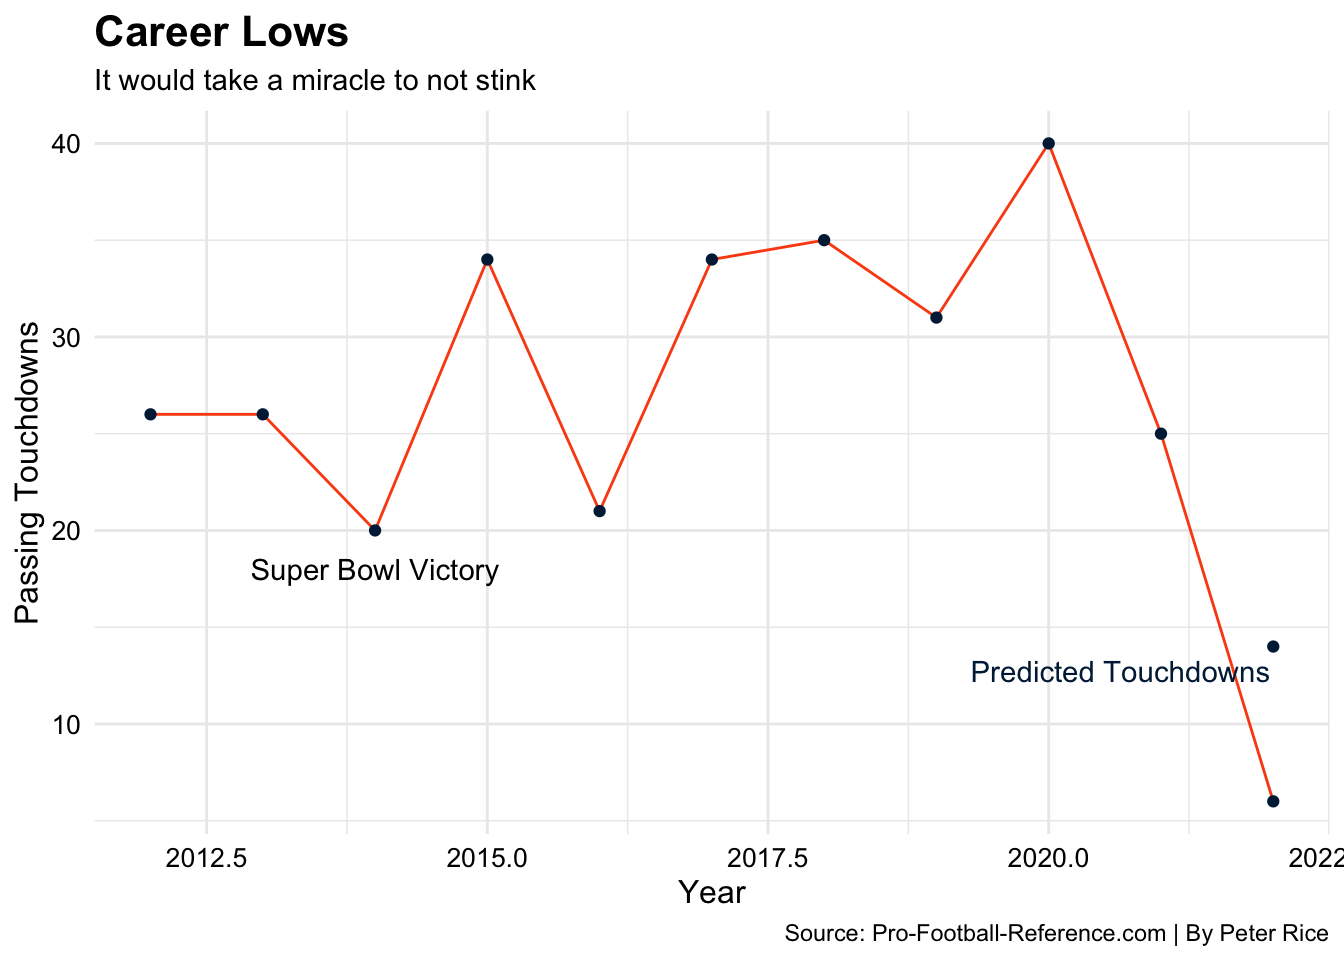
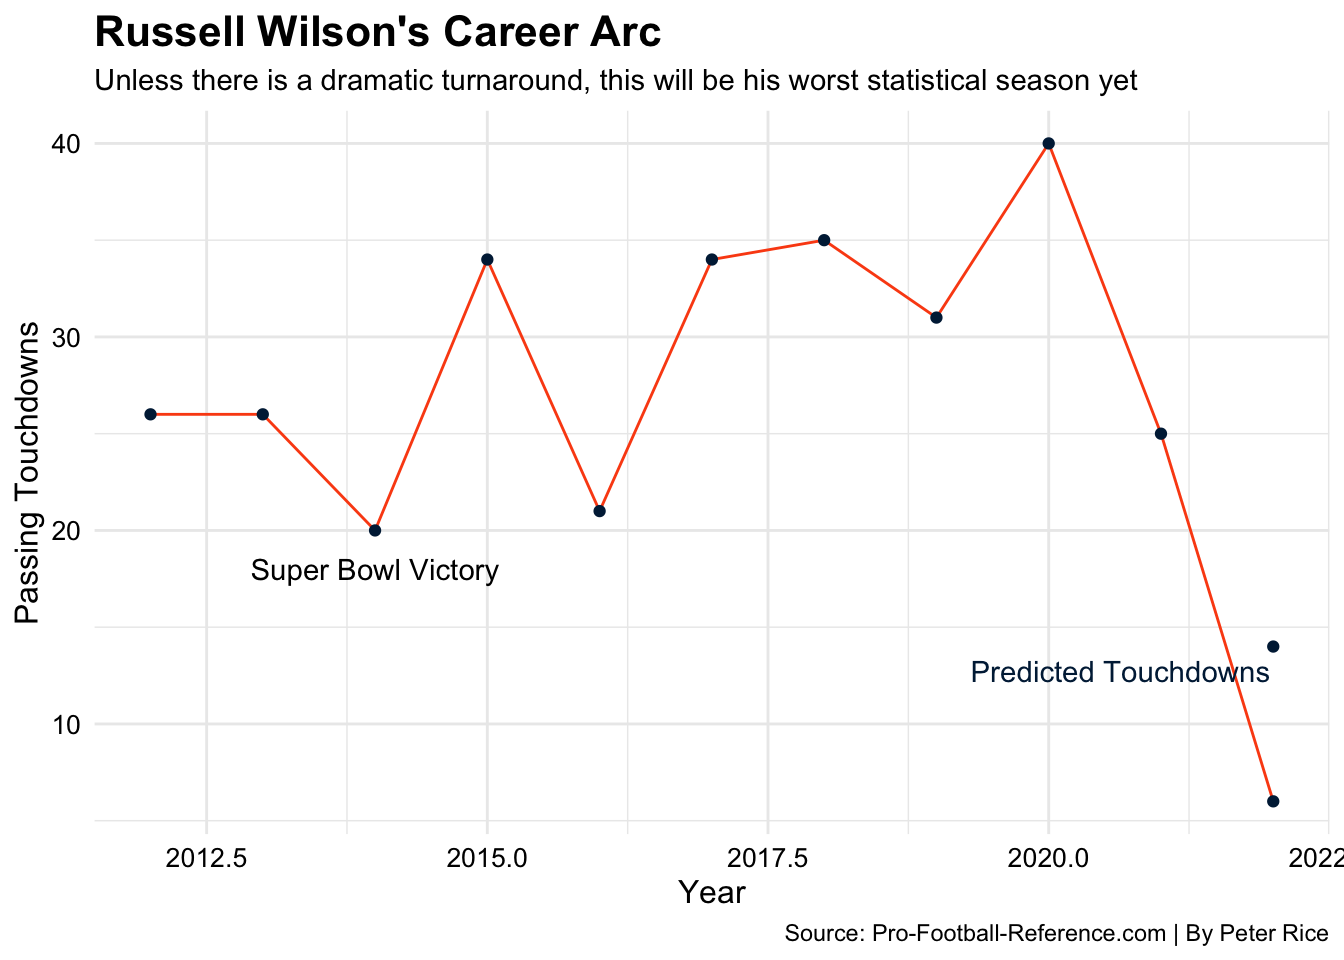
f

Changed region(s): [[0.0625, 0.0, 0.8438, 0.0938]]

diff --git a/posts/russell-wilson-isnt-living-up-to-hype/index.html b/posts/russell-wilson-isnt-living-up-to-hype/index.html
@@ -327,12 +327,12 @@ code span.wa { color: #60a0b0; font-weight: bold; font-style: italic; } /* Warni
 </details>
 <div class="cell-output-display">
 
-<div id="aepnxbnpwr" style="overflow-x:auto;overflow-y:auto;width:auto;height:auto;">
+<div id="ujxrtpgthv" style="overflow-x:auto;overflow-y:auto;width:auto;height:auto;">
 <style>html {
   font-family: -apple-system, BlinkMacSystemFont, 'Segoe UI', Roboto, Oxygen, Ubuntu, Cantarell, 'Helvetica Neue', 'Fira Sans', 'Droid Sans', Arial, sans-serif;
 }
 
-:where(#aepnxbnpwr) .gt_table {
+:where(#ujxrtpgthv) .gt_table {
   display: table;
   border-collapse: collapse;
   margin-left: auto;
@@ -357,7 +357,7 @@ code span.wa { color: #60a0b0; font-weight: bold; font-style: italic; } /* Warni
   border-left-color: #D3D3D3;
 }
 
-:where(#aepnxbnpwr) .gt_heading {
+:where(#ujxrtpgthv) .gt_heading {
   background-color: #FFFFFF;
   text-align: center;
   border-bottom-color: #FFFFFF;
@@ -369,7 +369,7 @@ code span.wa { color: #60a0b0; font-weight: bold; font-style: italic; } /* Warni
   border-right-color: #D3D3D3;
 }
 
-:where(#aepnxbnpwr) .gt_title {
+:where(#ujxrtpgthv) .gt_title {
   color: #333333;
   font-size: 125%;
   font-weight: initial;
@@ -381,7 +381,7 @@ code span.wa { color: #60a0b0; font-weight: bold; font-style: italic; } /* Warni
   border-bottom-width: 0;
 }
 
-:where(#aepnxbnpwr) .gt_subtitle {
+:where(#ujxrtpgthv) .gt_subtitle {
   color: #333333;
   font-size: 85%;
   font-weight: initial;
@@ -393,13 +393,13 @@ code span.wa { color: #60a0b0; font-weight: bold; font-style: italic; } /* Warni
   border-top-width: 0;
 }
 
-:where(#aepnxbnpwr) .gt_bottom_border {
+:where(#ujxrtpgthv) .gt_bottom_border {
   border-bottom-style: none;
   border-bottom-width: 2px;
   border-bottom-color: #D3D3D3;
 }
 
-:where(#aepnxbnpwr) .gt_col_headings {
+:where(#ujxrtpgthv) .gt_col_headings {
   border-top-style: none;
   border-top-width: 2px;
   border-top-color: #D3D3D3;
@@ -414,7 +414,7 @@ code span.wa { color: #60a0b0; font-weight: bold; font-style: italic; } /* Warni
   border-right-color: #D3D3D3;
 }
 
-:where(#aepnxbnpwr) .gt_col_heading {
+:where(#ujxrtpgthv) .gt_col_heading {
   color: #333333;
   background-color: #FFFFFF;
   font-size: 100%;
@@ -434,7 +434,7 @@ code span.wa { color: #60a0b0; font-weight: bold; font-style: italic; } /* Warni
   overflow-x: hidden;
 }
 
-:where(#aepnxbnpwr) .gt_column_spanner_outer {
+:where(#ujxrtpgthv) .gt_column_spanner_outer {
   color: #333333;
   background-color: #FFFFFF;
   font-size: 100%;
@@ -446,15 +446,15 @@ code span.wa { color: #60a0b0; font-weight: bold; font-style: italic; } /* Warni
   padding-right: 4px;
 }
 
-:where(#aepnxbnpwr) .gt_column_spanner_outer:first-child {
+:where(#ujxrtpgthv) .gt_column_spanner_outer:first-child {
   padding-left: 0;
 }
 
-:where(#aepnxbnpwr) .gt_column_spanner_outer:last-child {
+:where(#ujxrtpgthv) .gt_column_spanner_outer:last-child {
   padding-right: 0;
 }
 
-:where(#aepnxbnpwr) .gt_column_spanner {
+:where(#ujxrtpgthv) .gt_column_spanner {
   border-bottom-style: none;
   border-bottom-width: 2px;
   border-bottom-color: #D3D3D3;
@@ -466,7 +466,7 @@ code span.wa { color: #60a0b0; font-weight: bold; font-style: italic; } /* Warni
   width: 100%;
 }
 
-:where(#aepnxbnpwr) .gt_group_heading {
+:where(#ujxrtpgthv) .gt_group_heading {
   padding-top: 8px;
   padding-bottom: 8px;
   padding-left: 5px;
@@ -491,7 +491,7 @@ code span.wa { color: #60a0b0; font-weight: bold; font-style: italic; } /* Warni
   vertical-align: middle;
 }
 
-:where(#aepnxbnpwr) .gt_empty_group_heading {
+:where(#ujxrtpgthv) .gt_empty_group_heading {
   padding: 0.5px;
   color: #333333;
   background-color: #FFFFFF;
@@ -506,15 +506,15 @@ code span.wa { color: #60a0b0; font-weight: bold; font-style: italic; } /* Warni
   vertical-align: middle;
 }
 
-:where(#aepnxbnpwr) .gt_from_md > :first-child {
+:where(#ujxrtpgthv) .gt_from_md > :first-child {
   margin-top: 0;
 }
 
-:where(#aepnxbnpwr) .gt_from_md > :last-child {
+:where(#ujxrtpgthv) .gt_from_md > :last-child {
   margin-bottom: 0;
 }
 
-:where(#aepnxbnpwr) .gt_row {
+:where(#ujxrtpgthv) .gt_row {
   padding-top: 8px;
   padding-bottom: 8px;
   padding-left: 5px;
@@ -533,7 +533,7 @@ code span.wa { color: #60a0b0; font-weight: bold; font-style: italic; } /* Warni
   overflow-x: hidden;
 }
 
-:where(#aepnxbnpwr) .gt_stub {
+:where(#ujxrtpgthv) .gt_stub {
   color: #333333;
   background-color: #FFFFFF;
   font-size: 100%;
@@ -546,7 +546,7 @@ code span.wa { color: #60a0b0; font-weight: bold; font-style: italic; } /* Warni
   padding-right: 5px;
 }
 
-:where(#aepnxbnpwr) .gt_stub_row_group {
+:where(#ujxrtpgthv) .gt_stub_row_group {
   color: #333333;
   background-color: #FFFFFF;
   font-size: 100%;
@@ -560,11 +560,11 @@ code span.wa { color: #60a0b0; font-weight: bold; font-style: italic; } /* Warni
   vertical-align: top;
 }
 
-:where(#aepnxbnpwr) .gt_row_group_first td {
+:where(#ujxrtpgthv) .gt_row_group_first td {
   border-top-width: 2px;
 }
 
-:where(#aepnxbnpwr) .gt_summary_row {
+:where(#ujxrtpgthv) .gt_summary_row {
   color: #333333;
   background-color: #FFFFFF;
   text-transform: inherit;
@@ -574,16 +574,16 @@ code span.wa { color: #60a0b0; font-weight: bold; font-style: italic; } /* Warni
   padding-right: 5px;
 }
 
-:where(#aepnxbnpwr) .gt_first_summary_row {
+:where(#ujxrtpgthv) .gt_first_summary_row {
   border-top-style: none;
   border-top-color: #D3D3D3;
 }
 
-:where(#aepnxbnpwr) .gt_first_summary_row.thick {
+:where(#ujxrtpgthv) .gt_first_summary_row.thick {
   border-top-width: 2px;
 }
 
-:where(#aepnxbnpwr) .gt_last_summary_row {
+:where(#ujxrtpgthv) .gt_last_summary_row {
   padding-top: 8px;
   padding-bottom: 8px;
   padding-left: 5px;
@@ -593,7 +593,7 @@ code span.wa { color: #60a0b0; font-weight: bold; font-style: italic; } /* Warni
   border-bottom-color: #D3D3D3;
 }
 
-:where(#aepnxbnpwr) .gt_grand_summary_row {
+:where(#ujxrtpgthv) .gt_grand_summary_row {
   color: #333333;
   background-color: #FFFFFF;
   text-transform: inherit;
@@ -603,7 +603,7 @@ code span.wa { color: #60a0b0; font-weight: bold; font-style: italic; } /* Warni
   padding-right: 5px;
 }
 
-:where(#aepnxbnpwr) .gt_first_grand_summary_row {
+:where(#ujxrtpgthv) .gt_first_grand_summary_row {
   padding-top: 8px;
   padding-bottom: 8px;
   padding-left: 5px;
@@ -613,11 +613,11 @@ code span.wa { color: #60a0b0; font-weight: bold; font-style: italic; } /* Warni
   border-top-color: #D3D3D3;
 }
 
-:where(#aepnxbnpwr) .gt_striped {
+:where(#ujxrtpgthv) .gt_striped {
   background-color: rgba(128, 128, 128, 0.05);
 }
 
-:where(#aepnxbnpwr) .gt_table_body {
+:where(#ujxrtpgthv) .gt_table_body {
   border-top-style: none;
   border-top-width: 2px;
   border-top-color: #D3D3D3;
@@ -626,7 +626,7 @@ code span.wa { color: #60a0b0; font-weight: bold; font-style: italic; } /* Warni
   border-bottom-color: #D3D3D3;
 }
 
-:where(#aepnxbnpwr) .gt_footnotes {
+:where(#ujxrtpgthv) .gt_footnotes {
   color: #333333;
   background-color: #FFFFFF;
   border-bottom-style: none;
@@ -640,7 +640,7 @@ code span.wa { color: #60a0b0; font-weight: bold; font-style: italic; } /* Warni
   border-right-color: #D3D3D3;
 }
 
-:where(#aepnxbnpwr) .gt_footnote {
+:where(#ujxrtpgthv) .gt_footnote {
   margin: 0px;
   font-size: 90%;
   padding-left: 4px;
@@ -649,7 +649,7 @@ code span.wa { color: #60a0b0; font-weight: bold; font-style: italic; } /* Warni
   padding-right: 5px;
 }
 
-:where(#aepnxbnpwr) .gt_sourcenotes {
+:where(#ujxrtpgthv) .gt_sourcenotes {
   color: #333333;
   background-color: #FFFFFF;
   border-bottom-style: none;
@@ -663,7 +663,7 @@ code span.wa { color: #60a0b0; font-weight: bold; font-style: italic; } /* Warni
   border-right-color: #D3D3D3;
 }
 
-:where(#aepnxbnpwr) .gt_sourcenote {
+:where(#ujxrtpgthv) .gt_sourcenote {
   font-size: 90%;
   padding-top: 4px;
   padding-bottom: 4px;
@@ -671,64 +671,64 @@ code span.wa { color: #60a0b0; font-weight: bold; font-style: italic; } /* Warni
   padding-right: 5px;
 }
 
-:where(#aepnxbnpwr) .gt_left {
+:where(#ujxrtpgthv) .gt_left {
   text-align: left;
 }
 
-:where(#aepnxbnpwr) .gt_center {
+:where(#ujxrtpgthv) .gt_center {
   text-align: center;
 }
 
-:where(#aepnxbnpwr) .gt_right {
+:where(#ujxrtpgthv) .gt_right {
   text-align: right;
   font-variant-numeric: tabular-nums;
 }
 
-:where(#aepnxbnpwr) .gt_font_normal {
+:where(#ujxrtpgthv) .gt_font_normal {
   font-weight: normal;
 }
 
-:where(#aepnxbnpwr) .gt_font_bold {
+:where(#ujxrtpgthv) .gt_font_bold {
   font-weight: bold;
 }
 
-:where(#aepnxbnpwr) .gt_font_italic {
+:where(#ujxrtpgthv) .gt_font_italic {
   font-style: italic;
 }
 
-:where(#aepnxbnpwr) .gt_super {
+:where(#ujxrtpgthv) .gt_super {
   font-size: 65%;
 }
 
-:where(#aepnxbnpwr) .gt_footnote_marks {
+:where(#ujxrtpgthv) .gt_footnote_marks {
   font-style: italic;
   font-weight: normal;
   font-size: 75%;
   vertical-align: 0.4em;
 }
 
-:where(#aepnxbnpwr) .gt_asterisk {
+:where(#ujxrtpgthv) .gt_asterisk {
   font-size: 100%;
   vertical-align: 0;
 }
 
-:where(#aepnxbnpwr) .gt_indent_1 {
+:where(#ujxrtpgthv) .gt_indent_1 {
   text-indent: 5px;
 }
 
-:where(#aepnxbnpwr) .gt_indent_2 {
+:where(#ujxrtpgthv) .gt_indent_2 {
   text-indent: 10px;
 }
 
-:where(#aepnxbnpwr) .gt_indent_3 {
+:where(#ujxrtpgthv) .gt_indent_3 {
   text-indent: 15px;
 }
 
-:where(#aepnxbnpwr) .gt_indent_4 {
+:where(#ujxrtpgthv) .gt_indent_4 {
   text-indent: 20px;
 }
 
-:where(#aepnxbnpwr) .gt_indent_5 {
+:where(#ujxrtpgthv) .gt_indent_5 {
   text-indent: 25px;
 }
 </style>
@@ -805,7 +805,7 @@ code span.wa { color: #60a0b0; font-weight: bold; font-style: italic; } /* Warni
 </div>
 </div>
 </div>
-<p>He will need to improve his play regardless, but his teams in the past consistently made deep playoff runs even when he was playing sub-par. Wilson has another great defense and weapons at his side, so is it possible for him and the team to turn it around?</p>
+<p>He will need to improve his play regardless, but his teams in the past consistently made deep playoff runs even when he was playing sub-par. Wilson has another great defense and suitable weapons at his side, so is it possible for him and the Broncos to turn it around?</p>
 <div class="cell">
 <details>
 <summary>Code</summary>
@@ -816,8 +816,8 @@ code span.wa { color: #60a0b0; font-weight: bold; font-style: italic; } /* Warni
 <span id="cb3-5"><a href="#cb3-5" aria-hidden="true" tabindex="-1"></a>  <span class="fu">geom_line</span>(<span class="at">data=</span>mrunl2, <span class="fu">aes</span>(<span class="at">x=</span>Year, <span class="at">y=</span>TD), <span class="at">color=</span><span class="st">"#FB4F14"</span>) <span class="sc">+</span></span>
 <span id="cb3-6"><a href="#cb3-6" aria-hidden="true" tabindex="-1"></a>  <span class="fu">geom_point</span>(<span class="at">data=</span>mrunl2, <span class="fu">aes</span>(<span class="at">x=</span>Year, <span class="at">y=</span>TD), <span class="at">color=</span><span class="st">"#002244"</span>) <span class="sc">+</span></span>
 <span id="cb3-7"><a href="#cb3-7" aria-hidden="true" tabindex="-1"></a><span class="fu">labs</span>(<span class="at">x =</span> <span class="st">"Year"</span>, <span class="at">y =</span> <span class="st">"Passing Touchdowns"</span>,</span>
-<span id="cb3-8"><a href="#cb3-8" aria-hidden="true" tabindex="-1"></a><span class="at">title =</span> <span class="st">"Career Lows"</span>,</span>
-<span id="cb3-9"><a href="#cb3-9" aria-hidden="true" tabindex="-1"></a><span class="at">subtitle =</span> <span class="st">"It would take a miracle to not stink"</span>,</span>
+<span id="cb3-8"><a href="#cb3-8" aria-hidden="true" tabindex="-1"></a><span class="at">title =</span> <span class="st">"Russell Wilson's Career Arc"</span>,</span>
+<span id="cb3-9"><a href="#cb3-9" aria-hidden="true" tabindex="-1"></a><span class="at">subtitle =</span> <span class="st">"Unless there is a dramatic turnaround, this will be his worst statistical season yet"</span>,</span>
 <span id="cb3-10"><a href="#cb3-10" aria-hidden="true" tabindex="-1"></a><span class="at">caption =</span> <span class="st">"Source: Pro-Football-Reference.com | By Peter Rice"</span>, <span class="at">legend.position =</span> <span class="st">"none"</span>) <span class="sc">+</span></span>
 <span id="cb3-11"><a href="#cb3-11" aria-hidden="true" tabindex="-1"></a><span class="fu">theme_minimal</span>() <span class="sc">+</span> <span class="fu">theme</span>(</span>
 <span id="cb3-12"><a href="#cb3-12" aria-hidden="true" tabindex="-1"></a><span class="at">plot.title =</span> <span class="fu">element_text</span>(<span class="at">size =</span> <span class="dv">16</span>, <span class="at">face =</span> <span class="st">"bold"</span>),</span>
@@ -832,7 +832,8 @@ code span.wa { color: #60a0b0; font-weight: bold; font-style: italic; } /* Warni
 <p><img src="index_files/figure-html/unnamed-chunk-3-1.png" class="img-fluid" width="672"></p>
 </div>
 </div>
-<p>conclusion</p>
+<p>As a career-low season is looming for Wilson, it’s unlikely for the Broncos to make any postseason noise if they make it at all. The organization echoed this belief on the trade deadline when they dealt away talented pass-rusher Bradley Chubb to the Dolphins for Chase Edmonds and a first-round pick in next year’s draft.</p>
+<p>With 9 games remaining in the regular season, Russell and the Broncos have an uphill battle to avoid a seventh consecutive season missing the playoffs and their sixth straight losing season.</p>
 
 
 

diff --git a/index.html b/index.html
@@ -164,7 +164,7 @@ ul.task-list li input[type="checkbox"] {
 
 <div class="quarto-listing quarto-listing-container-default" id="listing-listing">
 <div class="list quarto-listing-default">
-<div class="quarto-post image-right" data-index="0" data-categories="sports,data,football" data-listing-date-sort="1667538000000" data-listing-file-modified-sort="1667791403169" data-listing-reading-time-sort="4.44">
+<div class="quarto-post image-right" data-index="0" data-categories="sports,data,football" data-listing-date-sort="1667538000000" data-listing-file-modified-sort="1667794087460" data-listing-reading-time-sort="4.92">
 <div class="thumbnail">
 <p><a href="./posts/russell-wilson-isnt-living-up-to-hype/index.html"> <img src="./posts/russell-wilson-isnt-living-up-to-hype/image.png" class="thumnail-image"> </a></p>
 </div>
